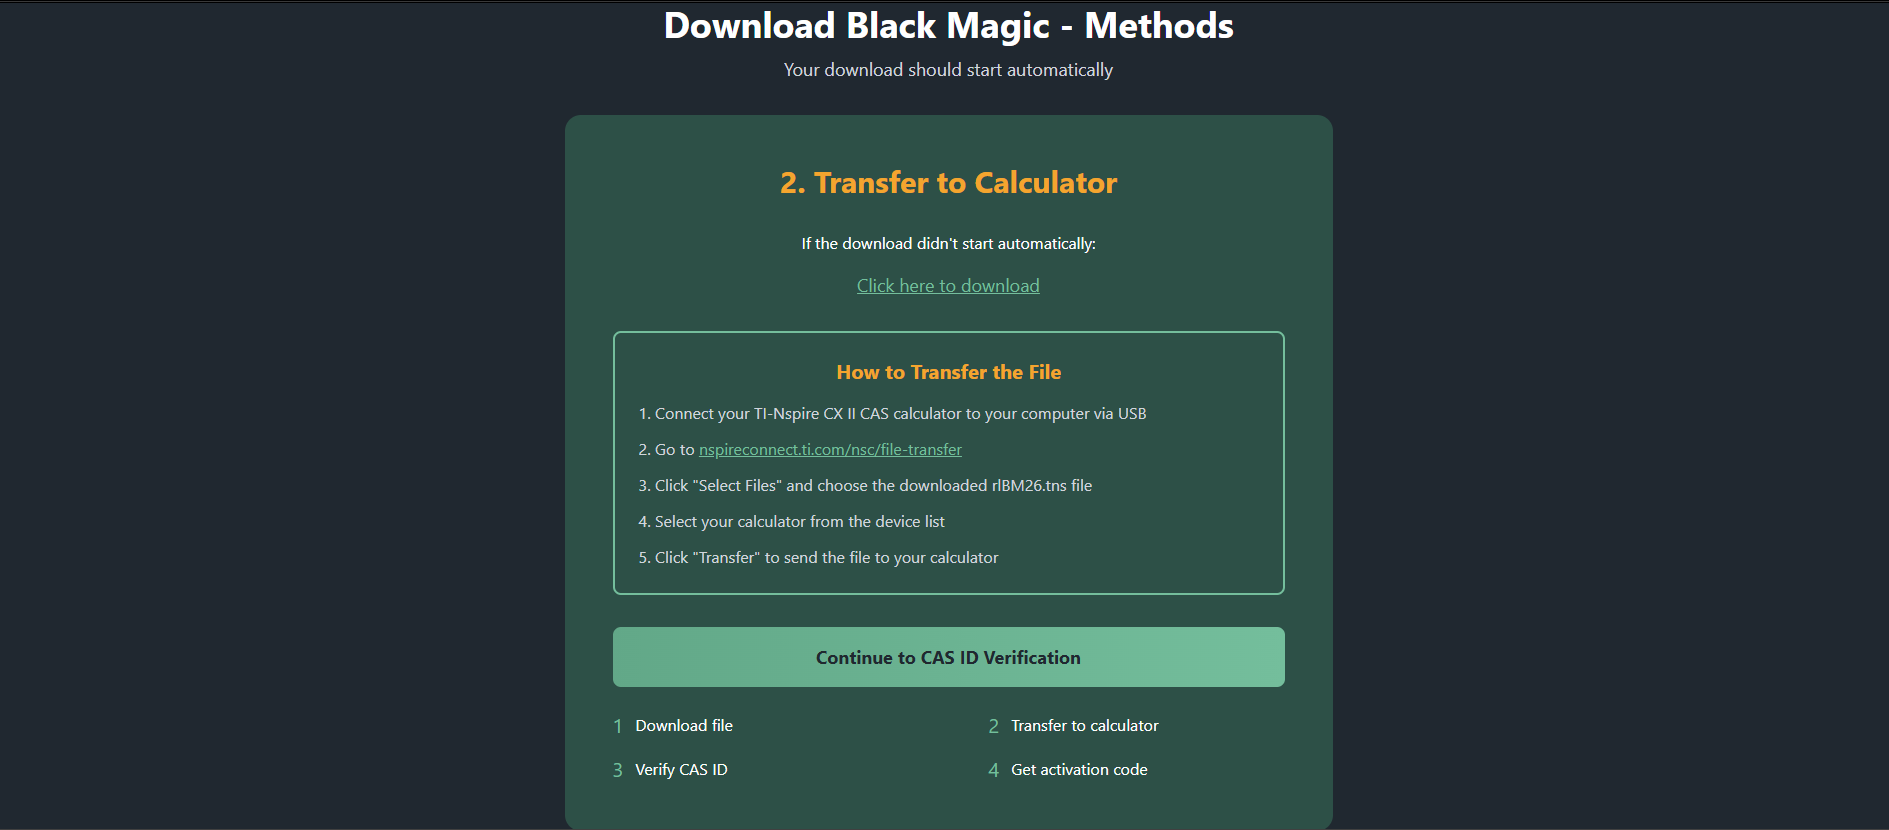
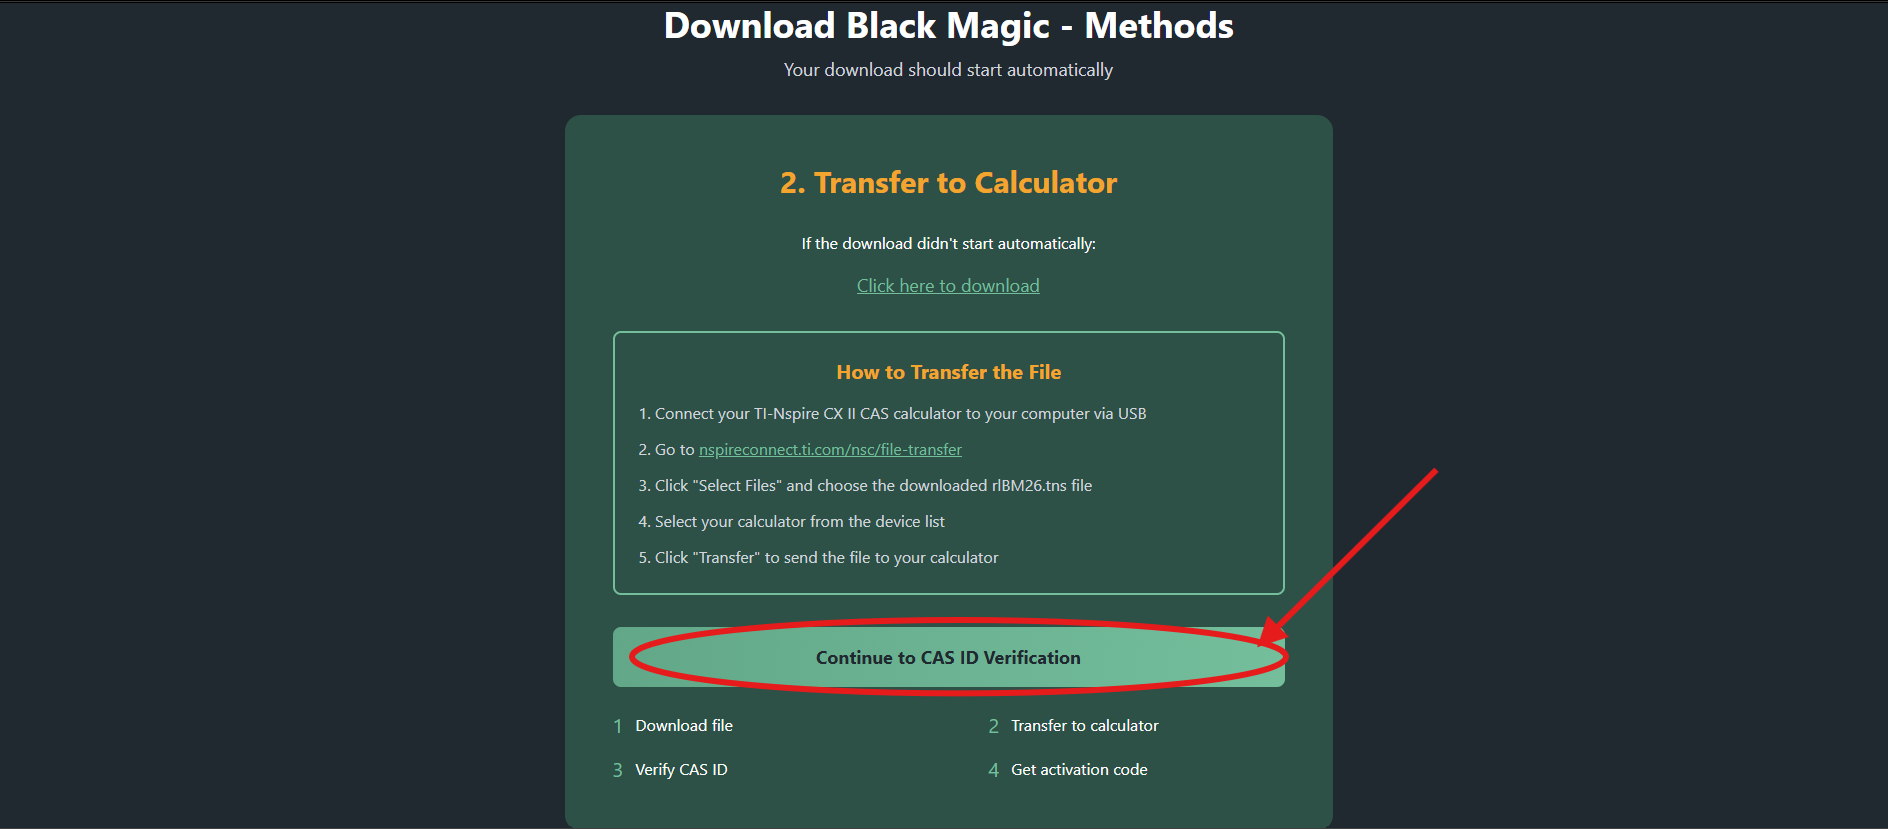
Finish instructions

diff --git a/RL-BM/src/pages/InstallationGuide.jsx b/RL-BM/src/pages/InstallationGuide.jsx
@@ -4,8 +4,16 @@ import ActivateNowImg from '../assets/ActivateNow.png';
 import SubjectSelection from '../assets/SubjectSelection.png';
 import ProductKey from '../assets/ProductKey.png';
 import Redirect from '../assets/Redirect.png';
+import Downloads from '../assets/Download.png';
 import Downloadmanual from '../assets/Downloadmanual.png';
 import FileTransfer from '../assets/FileTransfer.png';
+import ConnectCalc from '../assets/ConnectCalc.png';
+import ToDoCAS from '../assets/ToDoCAS.png';
+import ToCalc from '../assets/ToCalc.png';
+import TransferPage from '../assets/TransferPage.png';
+import CASIDverification from '../assets/CASIDverification.png';
+import CASIDlocation from '../assets/CASIDlocation.png';
+import InstallationComplete from '../assets/InstallationComplete.png';
 
 function InstallationGuide() {
     return (
@@ -129,41 +137,111 @@ function InstallationGuide() {
                     <div className="mt-4">
                         <img
                             src={FileTransfer}
-                            alt="Manual download link"
+                            alt="CAS connection page"
                             className="rounded-lg shadow-lg border border-[#3a4552]"
                         />
                     </div>
+                    <p className="text-gray-300 leading-relaxed">
+                        You should see your calculator appear after clicking "Connect to Calculator".
+                        If it doesn’t show up, please contact RL staff for assistance,
+                        as older versions of the CAS calculator (eg. black CAS) may not be supported.
+                    </p>
+                    <div className="mt-4">
+                        <img
+                            src={ConnectCalc}
+                            alt="Connect Calculator"
+                            className="rounded-lg shadow-lg border border-[#3a4552]"
+                        />
+                    </div>
+                    <p className="text-gray-300 leading-relaxed">
+                        Click on "Transfer File".
+                    </p>
+                    <div className="mt-4">
+                        <img
+                            src={ToDoCAS}
+                            alt="Connect Calculator"
+                            className="rounded-lg shadow-lg border border-[#3a4552]"
+                        />
+                    </div>
+                    <p className="text-gray-300 leading-relaxed">
+                        Click on "To Calculator".
+                    </p>
+                    <div className="mt-4">
+                        <img
+                            src={ToCalc}
+                            alt="Connect Calculator"
+                            className="rounded-lg shadow-lg border border-[#3a4552]"
+                        />
+                    </div>
+                    <p className="text-gray-300 leading-relaxed">
+                        Now click on either Google Drive or your Computer drive, depending
+                        on where you saved your black magic file, and transfer it to your CAS
+                        calculator.
+                    </p>
+                    <div className="mt-4">
+                        <img
+                            src={TransferPage}
+                            alt="Connect Calculator"
+                            className="rounded-lg shadow-lg border border-[#3a4552]"
+                        />
+                    </div>
+                    <p className="text-gray-300 leading-relaxed">
+                        Once you have successfully completed the following steps, please
+                        proceed to the next step by clicking the "Continue to CAS ID verification"
+                        button.
+                    </p>
+                    <div className="mt-4">
+                        <img
+                            src={Downloads}
+                            alt="Connect Calculator"
+                            className="rounded-lg shadow-lg border border-[#3a4552]"
+                        />
+                    </div>
+
 
                 </div>
                 <div className="bg-[#2d3642] rounded-lg p-8 mb-[32px]">
                     <h2 className="text-2xl font-semibold mb-4">Step 6</h2>
                     <p className="text-gray-300 leading-relaxed">
-                        Placeholder text: Here you will find a step-by-step guide on how to
-                        install and activate the Black Magic program on your CAS calculator.
-                        Detailed instructions, screenshots, and troubleshooting tips will
-                        be provided here soon.
+                        Please enter the last 6 digits of your CAS ID into the input box.
                     </p>
+                    <div className="mt-4">
+                        <img
+                            src={CASIDverification}
+                            alt="CAS ID verification"
+                            className="rounded-lg shadow-lg border border-[#3a4552]"
+                        />
+                    </div>
+                    <p className="text-gray-300 leading-relaxed">
+                        If you are wondering where are the last 6 digits of your CAS ID,
+                        please open up the downloaded program in your CAS calculator. The CAS ID
+                        should be shown on the front page as soon as you open the file.
+                    </p>
+                    <div className="mt-4">
+                        <img
+                            src={CASIDlocation}
+                            alt="CAS ID location"
+                            className="rounded-lg shadow-lg border border-[#3a4552]"
+                        />
+                    </div>
                 </div>
                 <div className="bg-[#2d3642] rounded-lg p-8 mb-[32px]">
                     <h2 className="text-2xl font-semibold mb-4">Step 7</h2>
                     <p className="text-gray-300 leading-relaxed">
-                        Placeholder text: Here you will find a step-by-step guide on how to
-                        install and activate the Black Magic program on your CAS calculator.
-                        Detailed instructions, screenshots, and troubleshooting tips will
-                        be provided here soon.
+                        Now you have finished setting up the Black Magic Program!
+                        Please ensure you save your password, to ensure you don't get
+                        locked out of the program.
                     </p>
+                    <div className="mt-4">
+                        <img
+                            src={InstallationComplete}
+                            alt="CAS ID Complete"
+                            className="rounded-lg shadow-lg border border-[#3a4552]"
+                        />
+                    </div>
                 </div>
                 <div className="bg-[#2d3642] rounded-lg p-8 mb-[32px]">
                     <h2 className="text-2xl font-semibold mb-4">Step 8</h2>
-                    <p className="text-gray-300 leading-relaxed">
-                        Placeholder text: Here you will find a step-by-step guide on how to
-                        install and activate the Black Magic program on your CAS calculator.
-                        Detailed instructions, screenshots, and troubleshooting tips will
-                        be provided here soon.
-                    </p>
-                </div>
-                <div className="bg-[#2d3642] rounded-lg p-8 mb-[32px]">
-                    <h2 className="text-2xl font-semibold mb-4">Step 9</h2>
                     <p className="text-gray-300 leading-relaxed">
                         Placeholder text: Here you will find a step-by-step guide on how to
                         install and activate the Black Magic program on your CAS calculator.
